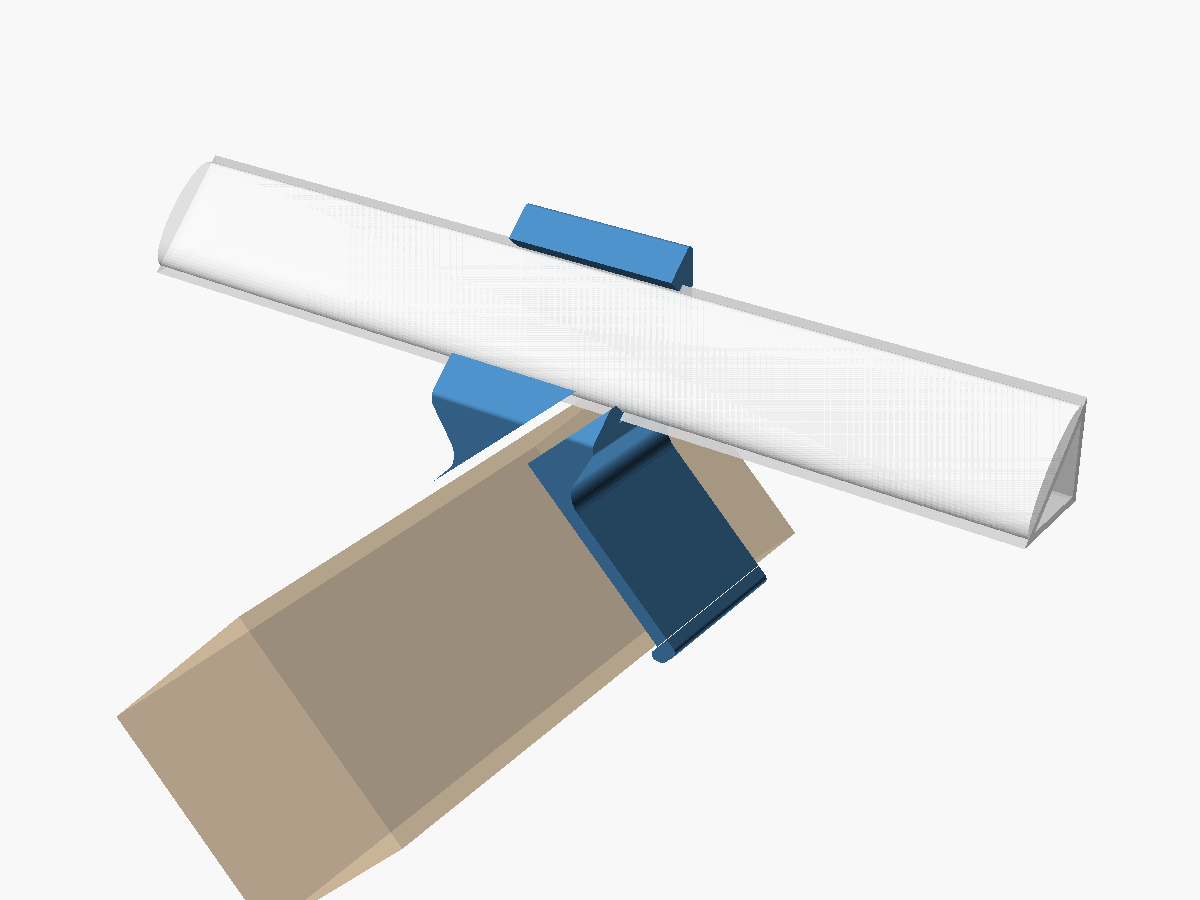
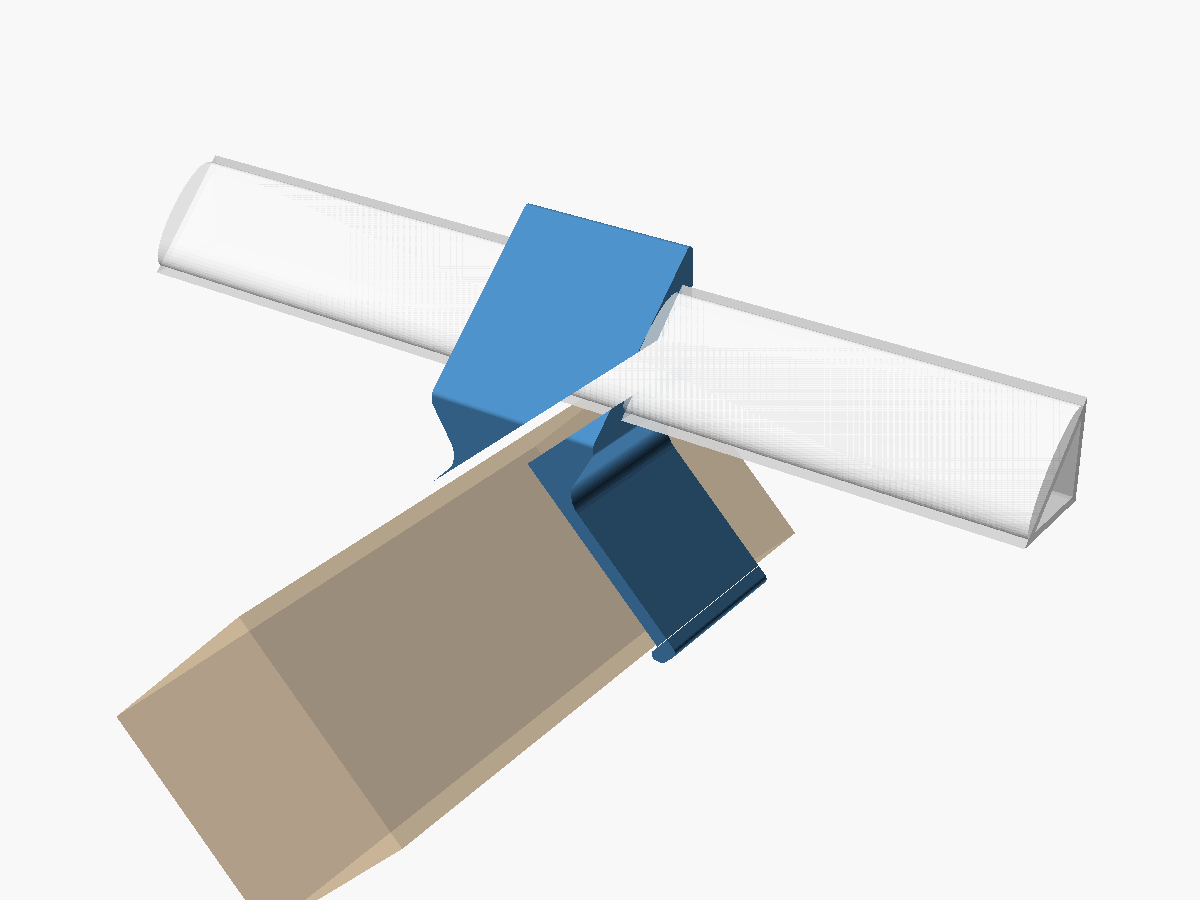
led-clip: drop the front lip so the clip prints without floating regions
Printed on its back face, the lip over the floor's front edge started in
mid-air under the profile and Bambu Studio flagged it. The top lip plus
the floor and back wall already trap the profile. front_lip = true brings
it back for anyone printing with supports.

Claude-Session: https://claude.ai/code/session_01BWvsXJPMJiTHinrewvcbPr

Changed region(s): [[0.37, 0.2489, 0.5858, 0.4667]]

diff --git a/examples/led-clip/README.md b/examples/led-clip/README.md
@@ -20,9 +20,13 @@ right.
   straight down. The divider's upper faces act as the lead-in ramp.
 - **Channel:** runs at 90° to the divider. The corner profile lies in it at `beam_angle` (45°),
   with one back flat on the floor and the other against a vertical back wall, so the diffuser faces
-  forwards and upwards. There is 0.3 mm sliding clearance on every face. Two lips hook
-  `lip_overlap` (1.2 mm) over the profile's front edges, so it slides in from the end and cannot
-  lift out. Two crush ribs add a 0.15 mm interference so it stays put.
+  forwards and upwards. There is 0.3 mm sliding clearance on every face. A lip on top of the
+  back wall hooks `lip_overlap` (1.2 mm) over the profile's upper edge. Together with the floor
+  and back wall, that traps the profile, so it slides in from the end and cannot lift or tip out.
+  Two crush ribs add a 0.15 mm interference so it stays put.
+- **No front lip by default:** a second lip over the floor's front edge would start in mid-air
+  when printed on the back face, and Bambu Studio flags it as a floating region. Set
+  `front_lip = true` to add it, and enable supports if you do.
 - **Coordinates:** X is along the profile, Y along the divider (+Y towards the front of the rack),
   Z is up.
 
@@ -49,7 +53,7 @@ right.
 | `grip_depth` | 2.5 | the clip is too hard to push on (lower) or falls off (raise). 0 = no hooks |
 | `profile_tol` | 0.3 | the profile slides too stiffly or rattles |
 | `crush` | 0.15 | the profile slips (raise) or won't go in (lower, or 0) |
-| `lip_overlap` | 1.2 | the diffuser bulges out under the lips (lower) |
+| `lip_overlap` | 1.2 | the diffuser bulges out under the lip (lower) |
 | `beam_angle` | 45 | you want the light aimed differently: 0 = up, 90 = straight forward |
 | `channel_len` | 30 | you want more or less support under the profile |
 
